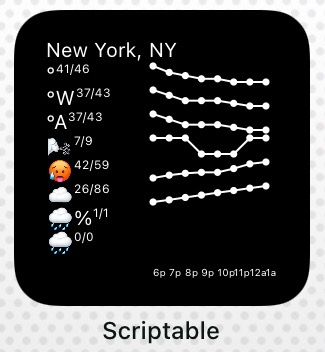
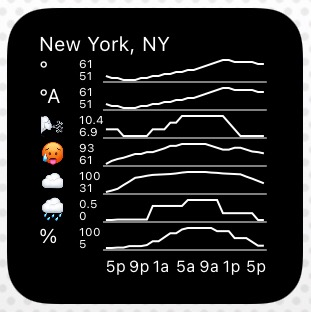
Various updates. Add caching for location. Update units. lots of visual tweaks. show more data.

Changed region(s): [[0.1158, 0.1154, 0.8682, 0.8077], [0.0, 0.0, 0.9839, 0.9808]]

diff --git a/weather-widget/weather-widget.js b/weather-widget/weather-widget.js
@@ -18,9 +18,14 @@ let defaultFont = fontFamily(10);
 
 const now = Date.now(); // running once here.
 function range(n) { return [...Array(n).keys()]; }
-const hours = range(8).map(i => now + i * 60 * 60 * 1000);
+const hours = range(28).map(i => now + i * 60 * 60 * 1000);
 
-function ctof (c) { return c * 9/5 + 32; }
+const converters = {
+    'wmoUnit:degC': c => c * 9/5 + 32, // to F
+    'wmoUnit:km_h-1': km => km / 1.609, // to m/h
+    'wmoUnit:mm': mm => mm/25.4, // to inches
+};
+
 function text(w, s, font) {
     let f = w.addText(s);
     f.font = font || defaultFont;
@@ -41,7 +46,7 @@ function propertyToSeries(property) {
         let r = parseRange(v.validTime);
         return r.start <= h && h < r.end;
     }));
-    const conv = property.uom == 'wmoUnit:degC' ? ctof : (x) => x;
+    const conv = converters[property.uom] || (x => x);
     return values.map(v => conv(v.value));
 }
 const durationRx = new RegExp('^/P(?:(?<day>\\d+)D)?T(?:(?<hour>\\d+)H)?$');
@@ -65,11 +70,12 @@ function normalizedCoord(coord, min, max) {
     return (coord - min) / (max - min);
 }
 const margin = 2;
+const leftpad = 10;
 function plotted(series) {
 
     const widgetSize = computeWidgetSize();
     const ctx = new DrawContext();
-    ctx.size = new Size(widgetSize.width * 0.5, 12);
+    ctx.size = new Size(widgetSize.width * 0.7, 14);
     ctx.respectScreenScale = true;
     ctx.opaque = false;
 
@@ -82,14 +88,28 @@ function plotted(series) {
 
     let p = new Path();
     p.addLines(series.map((val, idx) => {
-        let x = normalizedCoord(idx, -0.5, series.length - 0.5)*(ctx.size.width-2*margin)+margin;
+        let x = normalizedCoord(idx, -0.5, series.length - 0.5)*(ctx.size.width-2*margin-leftpad)+margin+leftpad;
         let y = (1-normalizedCoord(val, min, max))*(ctx.size.height-2*margin)+margin;
         let dx = 0.15 * ctx.size.height;
-        ctx.fillEllipse(new Rect(x-dx, y-dx, dx*2, dx*2));
+        //ctx.fillEllipse(new Rect(x-dx, y-dx, dx*2, dx*2));
         return new Point(x, y);
     }));
     ctx.addPath(p);
     ctx.strokePath();
+
+    // border between lines
+    ctx.setFillColor(Color.gray());
+    p = new Path();
+    //p.addLines([new Point(leftpad+margin, 0), new Point(ctx.size.width-margin, 0)]);
+    p.addLines([new Point(leftpad+margin, ctx.size.height-1), new Point(ctx.size.width-margin, ctx.size.height-1)]);
+    ctx.addPath(p);
+    ctx.setLineWidth(0.5);
+    ctx.strokePath();
+
+    ctx.setTextColor(Color.white());
+    ctx.setFont(fontFamily(6));
+    ctx.drawText(''+Math.round(max*10)/10, new Point(0, 0));
+    ctx.drawText(''+Math.round(min*10)/10, new Point(0, ctx.size.height/2-1));
 
     return ctx.getImage();
 }
@@ -99,19 +119,25 @@ function hourRender(ts) {
 }
 
 function hi(widget, labels) {
+    // HACK
+    // This is largely copy/pasted from `datarow`. Need to find a way to make this
+    // less of a hack?
     const widgetSize = computeWidgetSize();
     const ctx = new DrawContext();
-    ctx.size = new Size(widgetSize.width * 0.5, 12);
+    ctx.size = new Size(widgetSize.width * 0.7, 14);
     ctx.respectScreenScale = true;
     ctx.opaque = false;
 
     ctx.setTextColor(Color.white());
-    ctx.setFont(fontFamily(5));
+    ctx.setFont(fontFamily(8));
 
     labels.forEach((label, idx) => {
-        let x = normalizedCoord(idx, -0.5, labels.length - 0.5)*(ctx.size.width-2*margin)+margin;
-        let y = 0.5*(ctx.size.height-2*margin)+margin;
-        let dx = 0.15 * ctx.size.height;
+        if (idx % 4 != 0) {
+            return;
+        }
+        let x = normalizedCoord(idx, -0.5, labels.length - 0.5)*(ctx.size.width-2*margin-leftpad)+margin+leftpad;
+        let y = 0;
+        //let dx = 0.15 * ctx.size.height;
         //ctx.fillEllipse(new Rect(x-dx, y-dx, dx*2, dx*2));
 
         ctx.drawText(label, new Point(x, y));
@@ -143,7 +169,7 @@ async function main() {
     let widget = new ListWidget();
 
     // Location
-    let res = await Location.current();
+    let res = await cache('cgc-weather-widget-location.json', async () => await Location.current());
     let {latitude, longitude} = res;
 
     const [point, grid] = await cache('cgc-weather-widget.json', async function() {
@@ -157,7 +183,7 @@ async function main() {
 
     // Render Location
     const rel = point.properties.relativeLocation;
-    text(widget, rel.properties.city + ', ' + rel.properties.state);
+    text(widget, rel.properties.city + ', ' + rel.properties.state, fontFamily(10));
 
     /*
     const cols = widget.addStack();
@@ -180,9 +206,9 @@ async function main() {
         text(hilo, ''+Math.round(Math.max.apply(null, series)), fontFamily(6));
         text(hilo, ''+Math.round(Math.min.apply(null, series)), fontFamily(6));
         */
-        let min = Math.round(Math.min.apply(null, series));
-        let max = Math.round(Math.max.apply(null, series));
-        text(w, min+'/'+max, fontFamily(6));
+        //let min = Math.round(Math.min.apply(null, series));
+        //let max = Math.round(Math.max.apply(null, series));
+        //text(w, min+'/'+max, fontFamily(6));
 
         w.addSpacer();
 
@@ -191,13 +217,12 @@ async function main() {
     }
 
     datarow('°', propertyToSeries(grid.properties.temperature));
-    datarow('°W', propertyToSeries(grid.properties.windChill));
     datarow('°A', propertyToSeries(grid.properties.apparentTemperature));
     datarow('🌬', propertyToSeries(grid.properties.windSpeed));
     datarow('🥵', propertyToSeries(grid.properties.relativeHumidity));
     datarow('☁', propertyToSeries(grid.properties.skyCover));
-    datarow('🌧%', propertyToSeries(grid.properties.probabilityOfPrecipitation));
     datarow('🌧', propertyToSeries(grid.properties.quantitativePrecipitation));
+    datarow('%', propertyToSeries(grid.properties.probabilityOfPrecipitation));
 
     hi(widget, hours.map(hourRender));
 

diff --git a/weather-widget/README.md b/weather-widget/README.md
@@ -2,14 +2,15 @@ This is the code for an iOS widget showing weather information for your current 
 
 ![Screenshot of the iOS widget](widget.jpeg)
 
+The widget shows the name the National Weather Service assigns to your current location. Below this location name are plots of various weather measures. The next 28 hours of data are visualized. To the left of the plot are the max and min values the plot takes. Here's a legend for the symbols used:
+
 - ° - Temperature (F)
-- °W - Wind Chill (F)
-- °A - Apparent Temperature (a "feels like" temperature, will supersede the wind chill) (F)
-- 🌬 - Wind Speed (km/h)
+- °A - Apparent Temperature (a "feels like" temperature) (F)
+- 🌬 - Wind Speed (mph)
 - 🥵 - Relative Humidity (%)
 - ☁  - Cloud Cover (%)
-- 🌧% - Probability of precipitation (%)
-- 🌧 - Amount of precipitation (mm)
+- 🌧 - Amount of precipitation (in)
+- % - Probability of precipitation (%)
 
 For more info, see the [API documentation](https://weather-gov.github.io/api/gridpoints).
 
